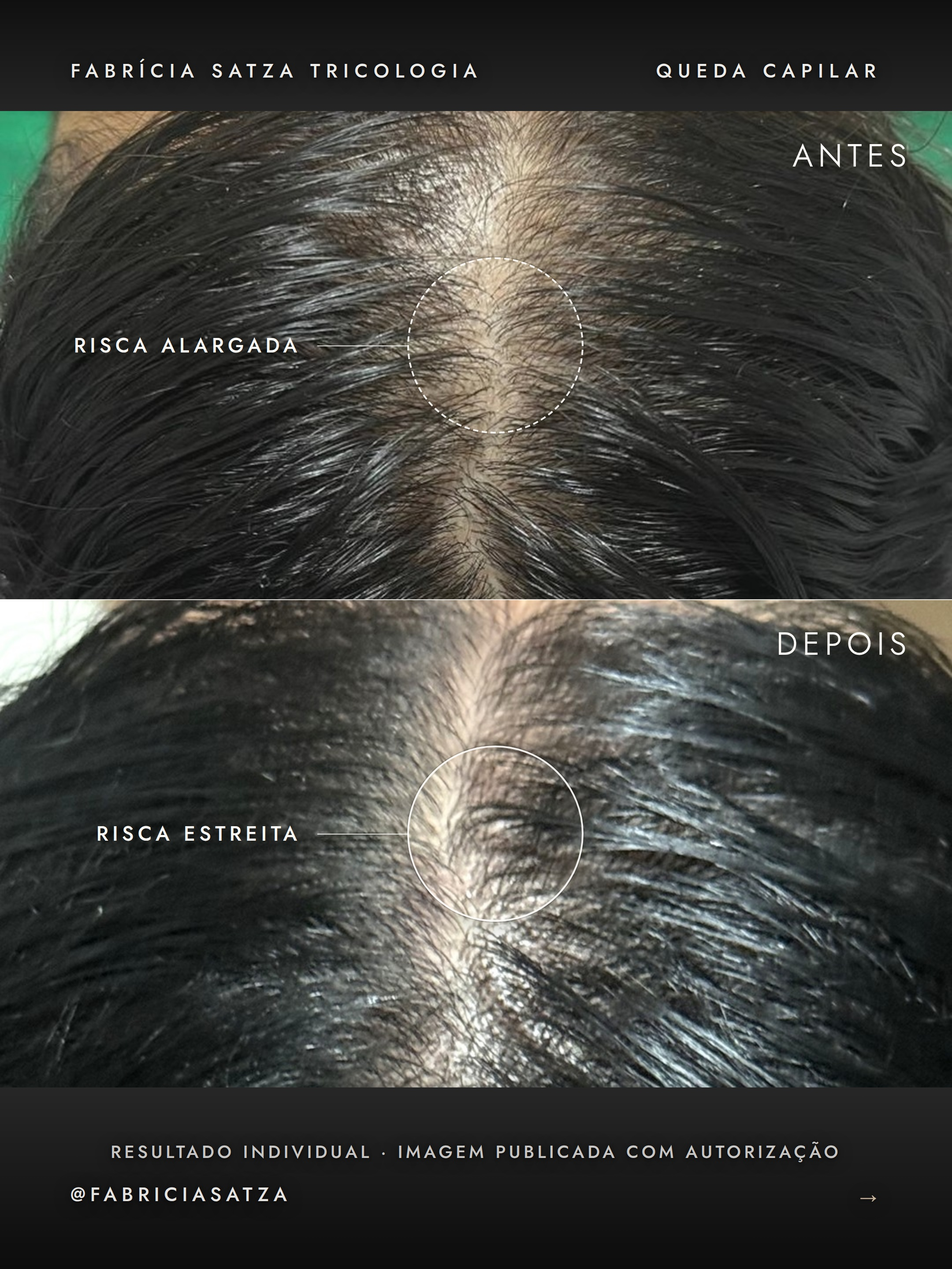
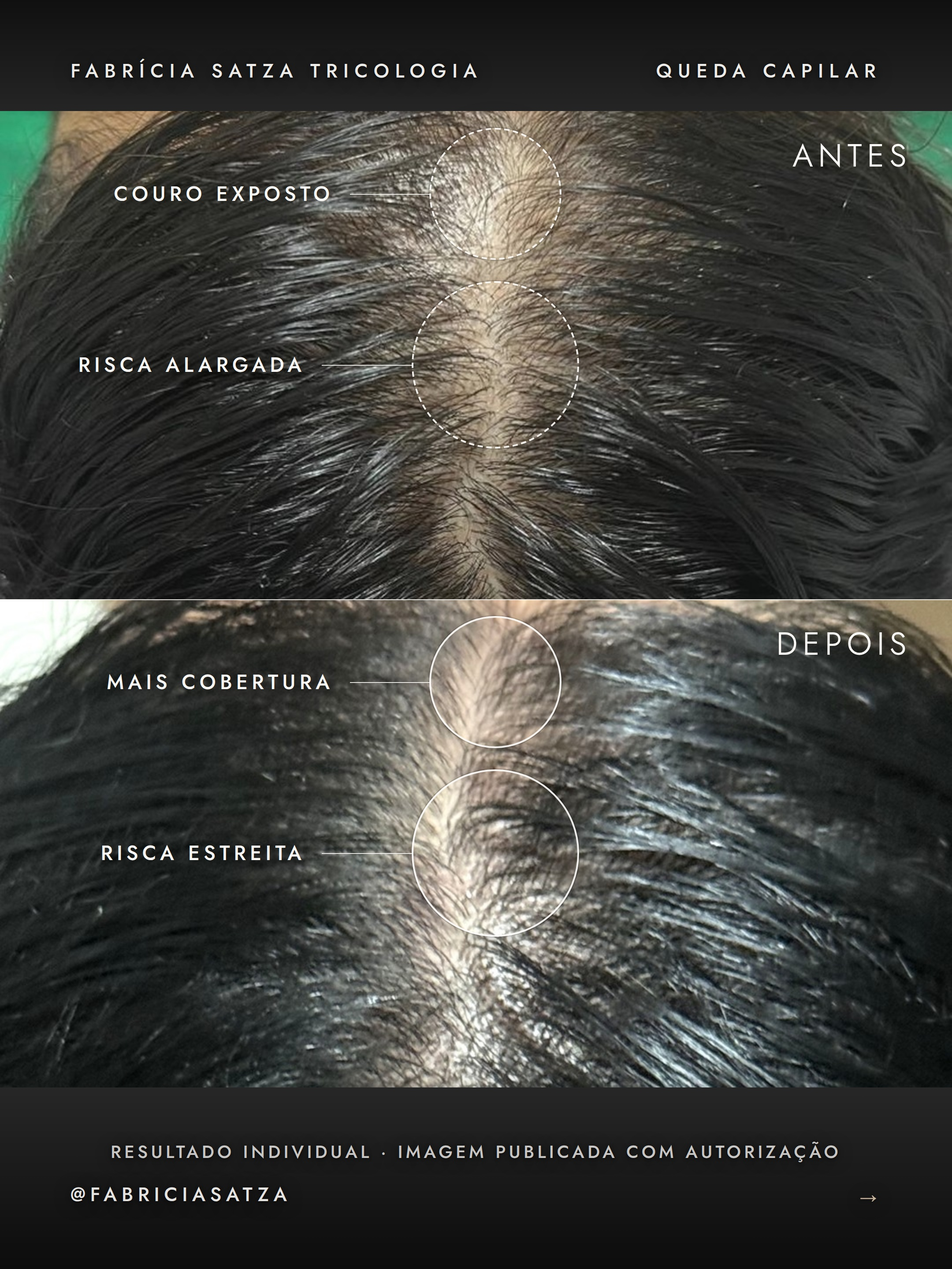
Segundo marcador por painel no antes e depois do caso 01
Além da risca central, marca a região frontal, onde o couro também aparece na
foto de janeiro. Dois por painel é o limite antes de virar poluição.

Os quatro anéis usam as mesmas duas coordenadas nos dois lados, que é o que
faz o olho comparar em vez de só olhar duas fotos. Os rótulos ficam à esquerda
em alturas diferentes para não colidirem entre si nem com o selo.

Claude-Session: https://claude.ai/code/session_01DL9VyhWUWZtPxmDSzgTccC

diff --git a/antes-depois-caso-01.html b/antes-depois-caso-01.html
@@ -396,13 +396,19 @@ em,i,.destaque{font-style:normal;color:var(--terracota-esc)}
   </div>
   <!-- anel tracejado = onde falta cabelo -->
   <div class="marcas a">
-    <div class="marca perda lateral" style="--x:52%;--y:48%;--r:200px;--h:104px">
+    <div class="marca perda lateral" style="--x:52%;--y:17%;--r:150px;--h:92px">
+      <div class="haste"></div><div class="nome">Couro exposto</div>
+    </div>
+    <div class="marca perda lateral" style="--x:52%;--y:52%;--r:190px;--h:104px">
       <div class="haste"></div><div class="nome">Risca alargada</div>
     </div>
   </div>
   <!-- anel continuo, nas MESMAS coordenadas -->
   <div class="marcas d">
-    <div class="marca ganho lateral" style="--x:52%;--y:48%;--r:200px;--h:104px">
+    <div class="marca ganho lateral" style="--x:52%;--y:17%;--r:150px;--h:92px">
+      <div class="haste"></div><div class="nome">Mais cobertura</div>
+    </div>
+    <div class="marca ganho lateral" style="--x:52%;--y:52%;--r:190px;--h:104px">
       <div class="haste"></div><div class="nome">Risca estreita</div>
     </div>
   </div>
